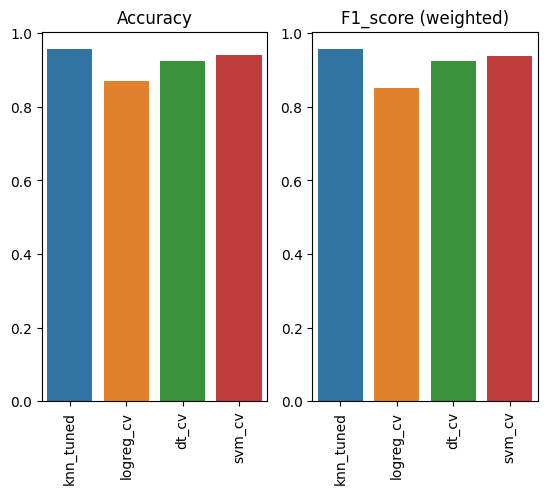
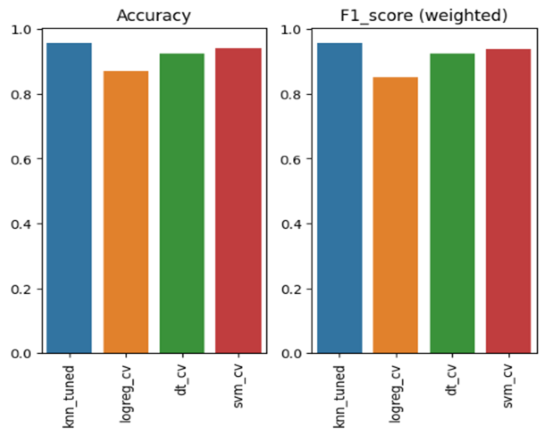
add new files

diff --git a/dashboard.py b/dashboard.py
@@ -1,5 +1,5 @@
 import dash
-
+from PIL import Image
 from dash import dcc, html, Input, Output
 import pandas as pd
 from plotly.subplots import make_subplots
@@ -19,6 +19,16 @@ Seasonality = HurrSeasonality(hurricane_data)
 Category = HurrCategory(hurricane_data)
 YearTrend = YearTrend(hurricane_data)
 location_options = [1,2,10,11,17,25,28]
+
+pil_img = Image.open("Image/Model 1/Figure_1.png")
+pil_img2 = Image.open("Image/Model 1/Figure_2.png")
+pil_img3 = Image.open("Image/Model 1/Figure_3.png")
+pil_img4 = Image.open("Image/Model 1/Figure_4.png")
+
+pil_md2_a = Image.open("Image/output.png")
+pil_md2_f1 = Image.open("Image/Tune_output.png")
+pil_NN = Image.open("Image/nn_output.png")
+pil_NN_cfm = Image.open("Image/NN_cfm_output.png")
 
 app = dash.Dash(__name__)
 
@@ -64,6 +74,7 @@ app.layout = html.Div([
     # Graph to display the wind and pressure subplots
     html.Div(id='output-container'),
     
+    html.Hr(), 
 
     html.Div([html.H1("Exposure Report")],style={'textAlign': 'center', 'margin': 'auto'},),
     html.Div([
@@ -97,7 +108,51 @@ app.layout = html.Div([
         'margin-left': 'auto',
         'margin-right': 'auto', 
         'width': '60%'
-    })
+    }), 
+    html.Hr(),
+    html.Div([html.H1("Hurricane & Exposure Analysis Model")],style={'textAlign': 'center', 'margin': 'auto'},),
+    html.Div([html.H2("Model 1: Exposure Insured Value Prediction")]),
+    html.Div([
+        html.Div([
+            html.Div([
+                html.Img(src=pil_img, style={'display':'inline-block', 'float':'left','width': '50%', 'height': '50%', 'object-fit': 'cover'})
+            ]),
+            html.Div([
+                html.Img(src=pil_img2, style={'display':'inline-block', 'float':'right','width': '50%', 'height': '50%', 'object-fit': 'cover'})
+            ]),
+        ]),
+        html.Div([
+            html.Div([
+                html.Img(src=pil_img3, style={'display':'inline-block', 'float':'left','width': '50%','height': '50%', 'object-fit': 'cover'})
+            ]),
+            html.Div([
+                html.Img(src=pil_img4, style={'display':'inline-block', 'float':'right','width': '50%','height': '50%', 'object-fit': 'cover'})
+            ]),
+        ])
+    ]),
+    html.Hr(), 
+    html.Div([html.H2("Model 2: Hurricane Classifier")]),
+    html.Div([
+        html.Div([
+            html.Img(src=pil_md2_a, style={'display':'inline-block', 'float':'left','width': '50%', 'height': '50%'})
+        ]),
+        html.Div([
+            html.Img(src=pil_md2_f1, style={'display':'inline-block', 'float':'right','width': '50%', 'height': '50%'})
+        ]),
+    ]),
+    html.Hr(),
+    html.Div([
+        html.H3("NN Training & Testing accuracy "),
+            html.Img(src=pil_NN, style={'display':'inline-block','width': '50%', 'height': '50%', 'object-fit': 'cover'})
+        ], style={'textAlign': 'center', 'margin': 'auto'}),     
+    html.Div([
+            html.H3("NN Confusion Matrix "),
+            html.Img(src=pil_NN_cfm, style={'display':'inline-block','width': '30%', 'height': '30%', 'object-fit': 'cover'})
+        ], style={'textAlign': 'center', 'margin': 'auto'}),
+    html.Hr(), 
+    
+    html.Div([html.H2("Model 3: Hurricane Path Prediction (On Going/Future)")])
+    
 ])
 
 @app.callback(
